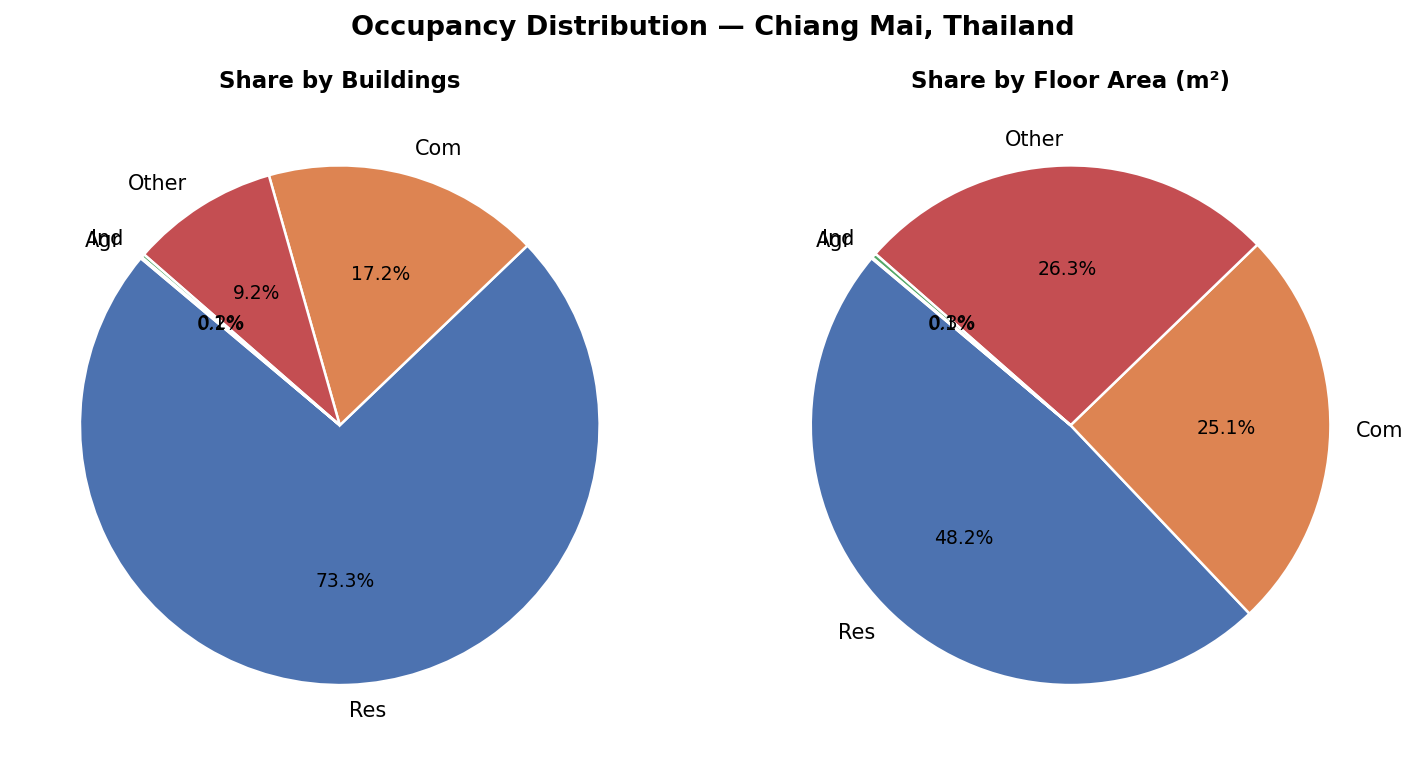
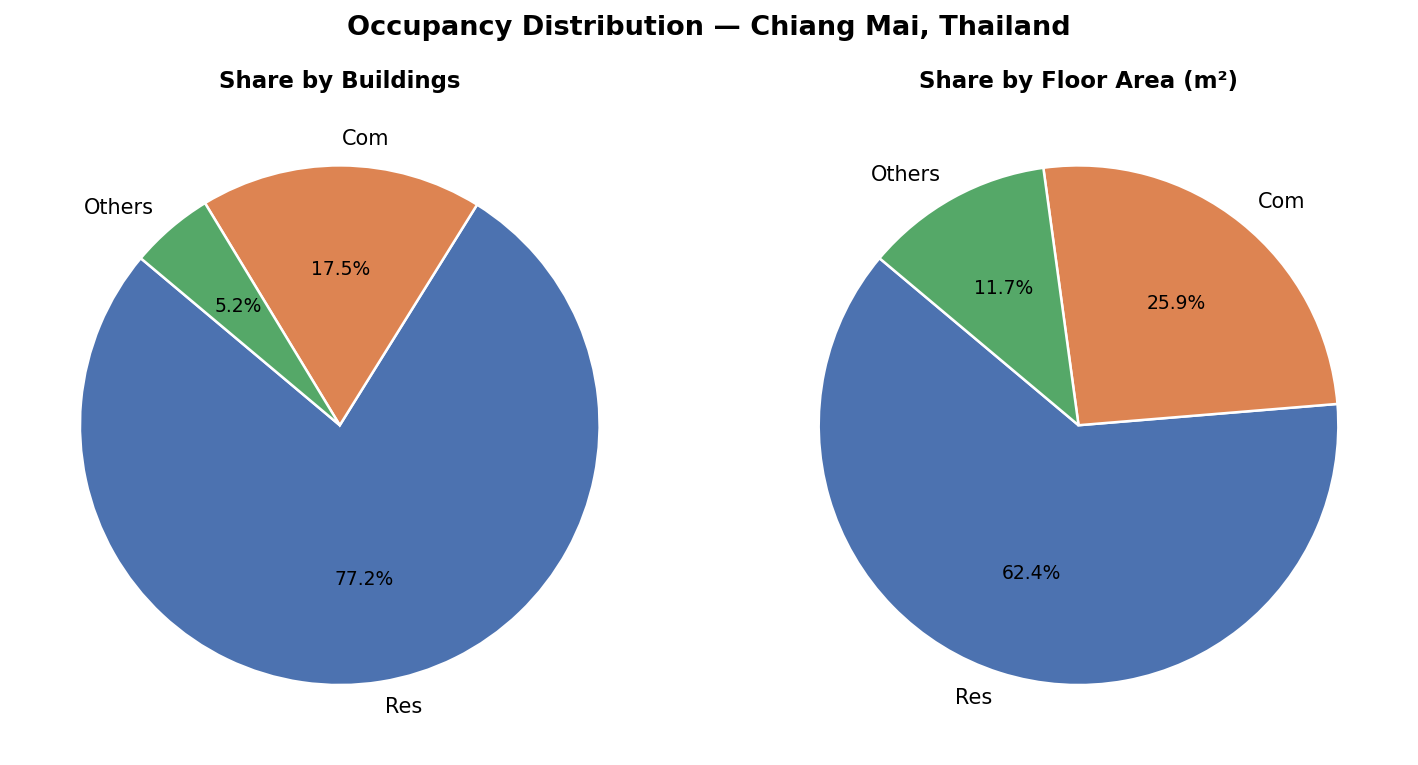
Update occupancy to Res/Com/Others grouping; fix RES3 mapping; update README
- Regroup occupancy charts to 3 categories: Res (77.25%), Com (17.54%), Others (5.21%)
- Fix OCC_MAP: add RES3 and COM1T which were missing, causing 3,848 residential
  buildings to be miscategorized as Other
- Regenerate expo_occ_buildings.png and expo_occ_pie.png with 3-category view
- Update README: occupancy table with counts/shares, repo structure and Data
  Description sections now include Construction Cost.csv and Occupants.csv

diff --git a/analyze.py b/analyze.py
@@ -19,10 +19,11 @@ PROVINCE_NAME = "Chiang Mai"
 
 # Occupancy mapping  OC_CLASS → GEM category
 OCC_MAP = {
-    "RES1": "Res", "RES2": "Res", "RES3A": "Res", "RES3B": "Res",
-    "RES3C": "Res", "RES3D": "Res", "RES3E": "Res", "RES3F": "Res",
+    "RES1": "Res", "RES2": "Res", "RES3": "Res",
+    "RES3A": "Res", "RES3B": "Res", "RES3C": "Res",
+    "RES3D": "Res", "RES3E": "Res", "RES3F": "Res",
     "RES4": "Res", "RES5": "Res", "RES6": "Res",
-    "COM1": "Com", "COM2": "Com", "COM3": "Com", "COM4": "Com",
+    "COM1": "Com", "COM1T": "Com", "COM2": "Com", "COM3": "Com", "COM4": "Com",
     "COM5": "Com", "COM6": "Com", "COM7": "Com", "COM8": "Com",
     "COM9": "Com", "COM10": "Com",
     "IND1": "Ind", "IND2": "Ind", "IND3": "Ind", "IND4": "Ind",
@@ -72,6 +73,7 @@ print(f"  Columns: {list(df.columns)}")
 # Normalise OC_CLASS
 df["OC_CLASS"] = df["OC_CLASS"].str.strip().str.upper()
 df["OCC_GEM"]  = df["OC_CLASS"].map(OCC_MAP).fillna("Other")
+df["OCC_3CAT"] = df["OCC_GEM"].apply(lambda x: x if x in ("Res", "Com") else "Others")
 
 # Normalise ST_TYPE
 df["ST_TYPE"]    = df["ST_TYPE"].str.strip().str.upper()
@@ -158,7 +160,7 @@ print(f"  {len(grp_ht)} height-class groups written.")
 # ═══════════════════════════════════════════════════════════════════════════
 # VISUALIZATIONS
 # ═══════════════════════════════════════════════════════════════════════════
-COLORS_OCC  = {"Res":"#4C72B0","Com":"#DD8452","Ind":"#55A868","Other":"#C44E52","Agr":"#8172B2"}
+COLORS_OCC  = {"Res":"#4C72B0","Com":"#DD8452","Others":"#55A868","Ind":"#C44E52","Other":"#C44E52","Agr":"#8172B2"}
 COLORS_TAXO = {
     "CR/LWAL":"#4C72B0","CR/LFINF":"#64B5CD","CR/LDUAL":"#1A6FA1",
     "W":"#55A868","MUR":"#DD8452","S":"#C44E52",
@@ -170,14 +172,20 @@ def fmt_k(x, _):
         return f"{x/1000:.0f}k"
     return f"{x:.0f}"
 
-# ── Fig 1: Occupancy breakdown — buildings (bar) ────────────────────────────
+# ── Fig 1: Occupancy breakdown — buildings (bar, 3 categories) ─────────────
 print("\nPlotting expo_occ_buildings.png ...")
-fig, ax = plt.subplots(figsize=(7, 4.5))
-occ_plot = grp_occ.set_index("OCCUPANCY")["BUILDINGS"]
+grp_occ3 = (df.groupby("OCC_3CAT")
+              .agg(BUILDINGS=("BLDGID","count"),
+                   TOTAL_AREA_SQM=("FL_AREA","sum"))
+              .reset_index()
+              .rename(columns={"OCC_3CAT":"OCCUPANCY"}))
+grp_occ3 = grp_occ3.set_index("OCCUPANCY").reindex(["Res","Com","Others"]).reset_index()
+fig, ax = plt.subplots(figsize=(6, 4.5))
+occ_plot = grp_occ3.set_index("OCCUPANCY")["BUILDINGS"]
 bars = ax.bar(occ_plot.index,
               occ_plot.values,
               color=[COLORS_OCC.get(o,"#999") for o in occ_plot.index],
-              edgecolor="white", linewidth=0.6, width=0.55)
+              edgecolor="white", linewidth=0.6, width=0.45)
 for bar in bars:
     h = bar.get_height()
     ax.text(bar.get_x() + bar.get_width()/2, h + occ_plot.max()*0.01,
@@ -220,13 +228,13 @@ plt.tight_layout()
 plt.savefig(os.path.join(OUT_DIR, "expo_story_class.png"), dpi=150, bbox_inches="tight")
 plt.close()
 
-# ── Fig 5: Pie — occupancy share ────────────────────────────────────────────
+# ── Fig 5: Pie — occupancy share (3 categories) ─────────────────────────────
 print("Plotting expo_occ_pie.png ...")
 fig, axes = plt.subplots(1, 2, figsize=(10, 5))
 for ax, col, label in zip(axes,
                            ["BUILDINGS","TOTAL_AREA_SQM"],
                            ["Buildings","Floor Area (m²)"]):
-    vals   = grp_occ.set_index("OCCUPANCY")[col]
+    vals   = grp_occ3.set_index("OCCUPANCY")[col]
     colors = [COLORS_OCC.get(o,"#999") for o in vals.index]
     wedges, texts, autotexts = ax.pie(
         vals, labels=vals.index, autopct="%1.1f%%",

diff --git a/README.md b/README.md
@@ -9,12 +9,14 @@
 ```
 exposure-module/
 ├── Exposure-Module.csv                # Building-level exposure (~96,635 assets)
+├── Construction Cost.csv              # Construction cost data by building type
+├── Occupants.csv                      # Occupant count data by building type
 ├── Exposure_Summary_OccClass.csv      # Building count & area by occupancy class
 ├── Exposure_Summary_Taxonomy.csv      # Building count & area by GEM taxonomy
 ├── Exposure_Summary_STType.csv        # Building count & area by structural type
 ├── Exposure_Summary_StoryClass.csv    # Building count & area by height class
-├── expo_occ_buildings.png             # Chart: buildings by occupancy
-├── expo_occ_pie.png                   # Chart: occupancy share (pie)
+├── expo_occ_buildings.png             # Chart: buildings by occupancy (Res/Com/Others)
+├── expo_occ_pie.png                   # Chart: occupancy share pie (Res/Com/Others)
 ├── expo_story_class.png               # Chart: buildings by height class
 └── analyze.py                         # Analysis & figure generation script
 ```
@@ -50,15 +52,13 @@ The exposure dataset covers **96,635 buildings** across Chiang Mai Province coll
 
 ### Occupancy Classes
 
-Occupancy follows the **HAZUS classification** system, mapped to GEM categories:
+Occupancy follows the **HAZUS classification** system, grouped into three categories:
 
-| GEM Category | HAZUS Classes | Description |
-|---|---|---|
-| `Res` | RES1–RES6 | Residential buildings |
-| `Com` | COM1–COM10 | Commercial buildings |
-| `Ind` | IND1–IND6 | Industrial buildings |
-| `Agr` | AGR1 | Agricultural buildings |
-| `Other` | REL1, GOV1–2, EDU1–2 | Religious, government, educational |
+| Category | HAZUS Classes | Buildings | Share |
+|---|---|---|---|
+| `Res` | RES1–RES6 | 74,650 | 77.25% |
+| `Com` | COM1–COM10 | 16,952 | 17.54% |
+| `Others` | IND1–6, AGR1, REL1, GOV1–2, EDU1–2 | 5,033 | 5.21% |
 
 ### Structural Types
 
@@ -103,13 +103,21 @@ Building structural types follow the **HAZUS SIC** classification as used in the
 | `Condition` | Text | Building condition rating |
 | `AGE` | Text | Building age class |
 | `Cluster` | Integer | Spatial cluster ID |
-| `GG_SURVEY_MU` | Integer | Google Street View survey flag (MU area) |
+| `GG_SURVEY_R1` | Integer | Google Street View Round 1 survey flag |
 | `GG_SURVEY_SPACE` | Integer | Google Street View survey flag (space imagery) |
-| `GG_SURVEY_UAV` | Integer | UAV survey flag |
+| `GG_SURVEY_R2` | Integer | Google Street View Round 2 / supplementary survey flag |
 | `WK_SURVEY_R1` | Integer | Walk survey round 1 flag |
 | `WK_SURVEY_R2` | Integer | Walk survey round 2 flag |
 | `TRUEEXPOSURE` | Integer | Verified exposure record flag |
 | `Extrapolated` | Integer | Statistically imputed record flag |
+
+### `Construction Cost.csv`
+
+Construction cost data by structural type and occupancy class, used for economic loss estimation.
+
+### `Occupants.csv`
+
+Occupant count data by occupancy class and time of day, used for casualty estimation.
 
 * * *
 